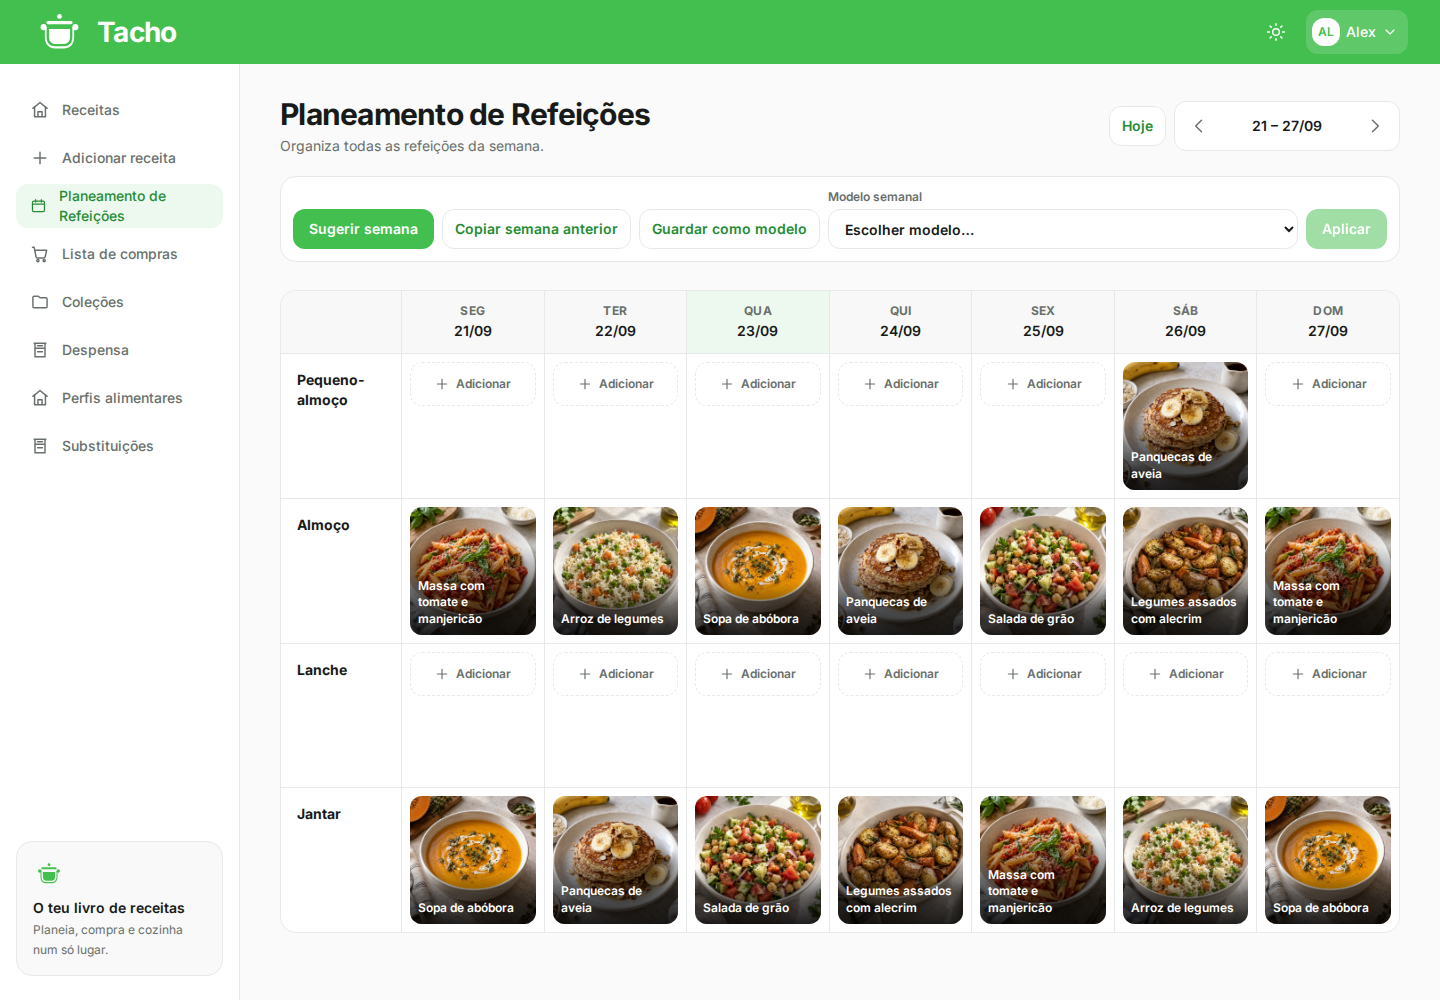
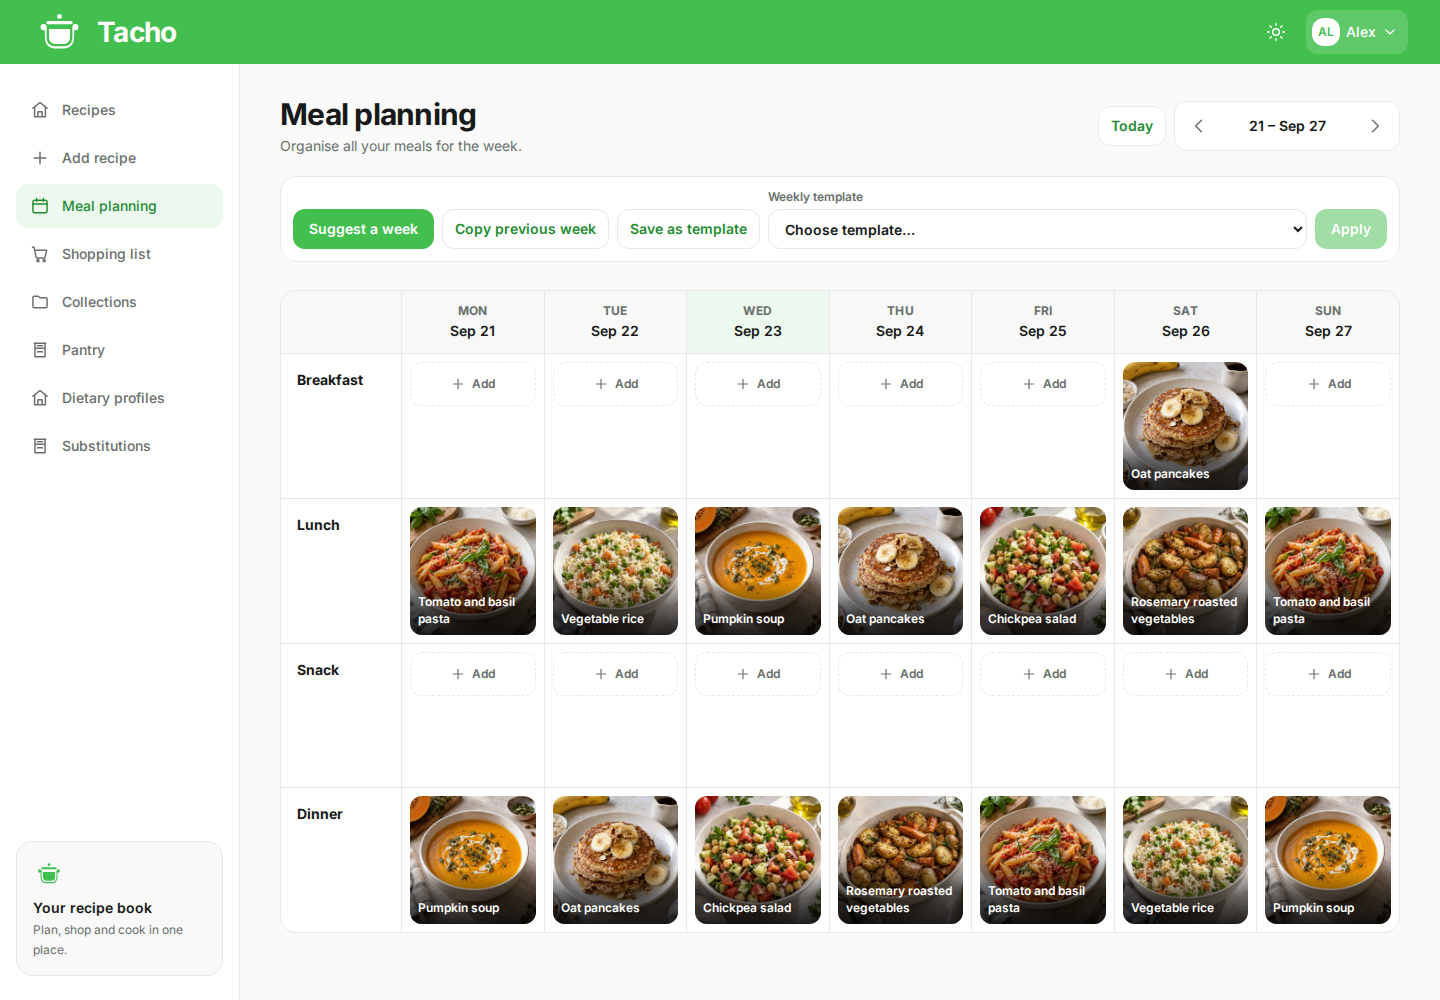
docs: use English throughout README screenshots

diff --git a/docs/screenshots.md b/docs/screenshots.md
@@ -7,9 +7,10 @@ included. The six recipe covers are AI-generated food illustrations, stored in
 any screenshot is taken. No external image host is needed during capture.
 
 Desktop captures use 1440 × 1000; mobile captures use 390 × 844 with touch and mobile
-emulation. The interface is European Portuguese, except for the English language-settings
-example. Images are saved without editing in
-`docs/images/`.
+emulation. All captures use the English interface and English demonstration recipes,
+categories, ingredients and cooking instructions. The language is selected through the
+account settings before capture and reused across browser contexts. Images are saved
+without editing in `docs/images/`.
 
 ## Use a disposable installation
 

diff --git a/README.md b/README.md
@@ -43,7 +43,8 @@ Recipes, accounts and uploaded photographs live on your own server.
 
 These are real browser screenshots of a disposable installation, populated with fictional
 household data, original example recipe text and AI-generated food images uploaded to all
-six recipes before capture. Click an image to view it full size.
+six recipes before capture. All screenshots show the English interface with English
+demonstration content. Click an image to view it full size.
 
 ### On a phone
 
